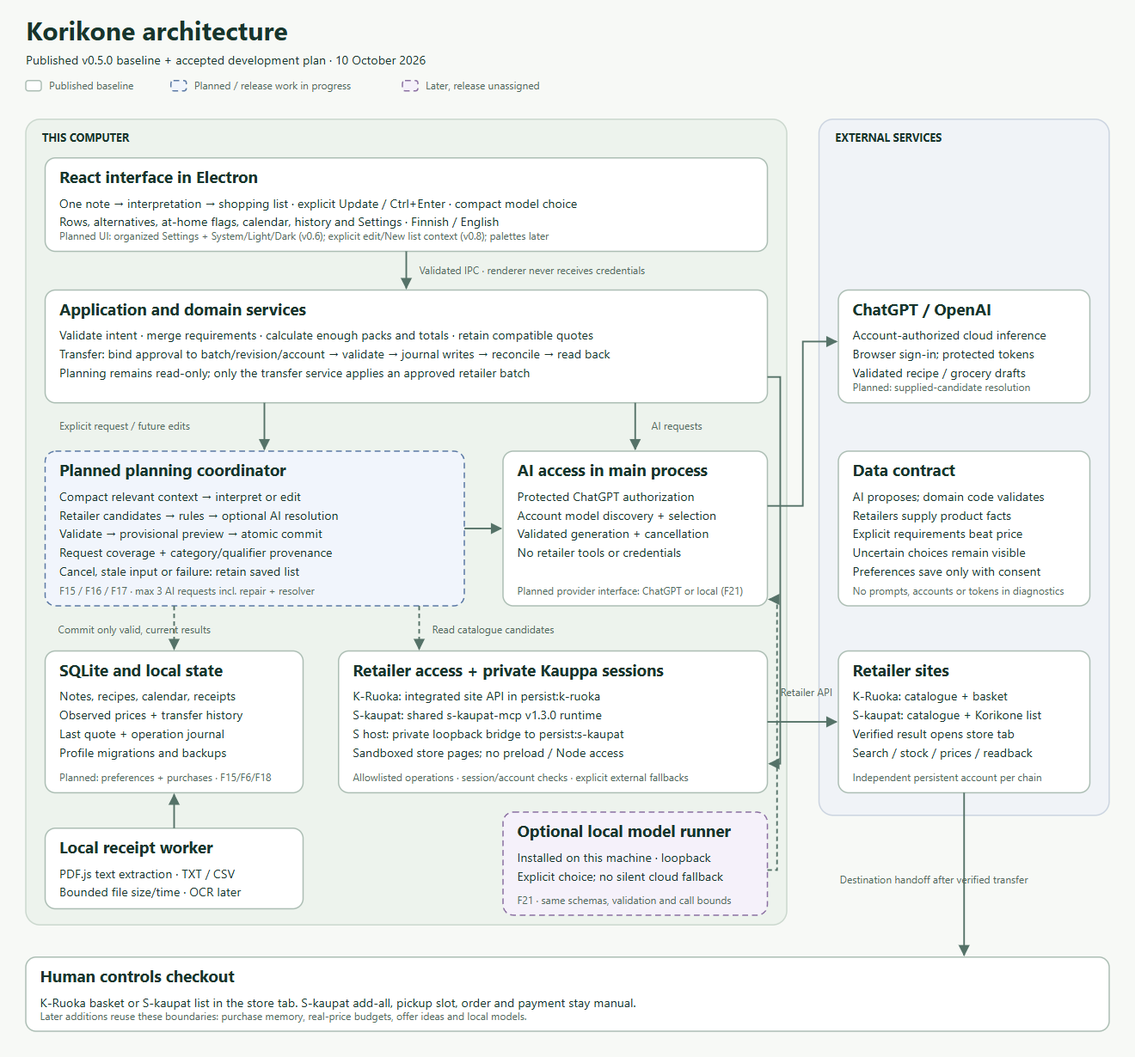
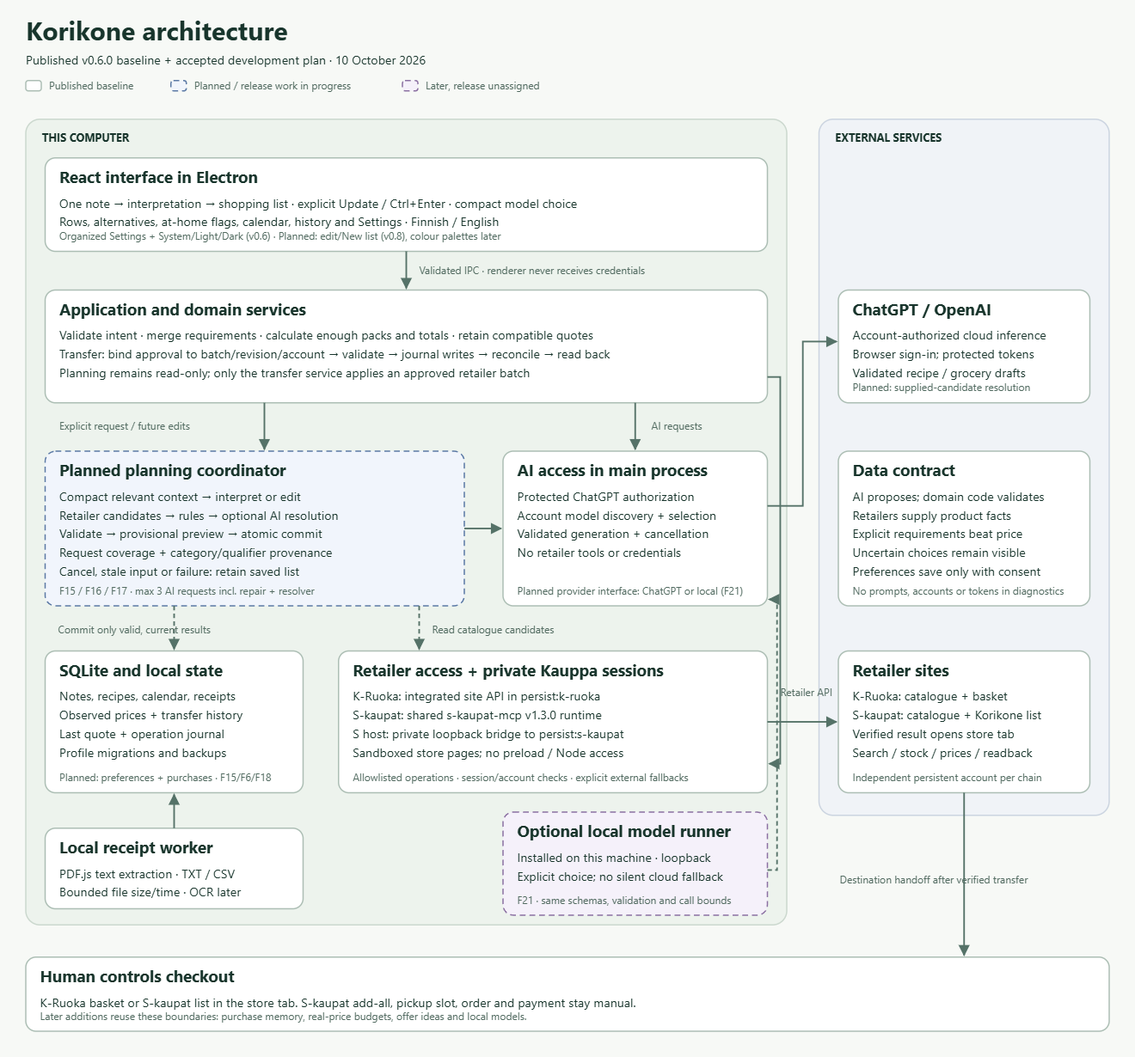
Record v0.6.0 publication and one-flow pre-release policy

diff --git a/docs/release-0.6.0.md b/docs/release-0.6.0.md
@@ -1,7 +1,21 @@
 # v0.6.0 release verification
 
-Release preparation is In progress on 10 October 2026. PM agent, branch `codex/release-v0.6.0`, shared checkout `D:/AIstuff/repos/korikone`. Scope: versioning, full release checks, outdated regression-test fixes, Windows packaging, GitHub checks and publication. All U14/U15/U16 cards and owner visual/startup acceptance are recorded Done in [the task list](tasks/0.6.0.md).
+[v0.6.0](https://github.com/Vkuparin/korikone/releases/tag/v0.6.0) was published on 10 October 2026 at 09:05 UTC. Source tag: `27d7f1729f601445c07fa635bad7d499589b0d4c`, integrated into main. PM agent, branch `codex/release-v0.6.0`, shared checkout `D:/AIstuff/repos/korikone`. Scope completed: versioning, release checks, outdated regression-test fixes, Windows packaging, GitHub checks and publication. All U14/U15/U16 cards and owner visual/startup acceptance are recorded Done in [the task list](tasks/0.6.0.md).
 
 This remains an unsigned Windows x64 pre-release. Development fixtures use isolated profiles and no live AI or retailer accounts. Installer acceptance, signing and household pilot gates remain open in [pre-release scope](pre-release.md).
 
-Results and publication identifiers will be recorded after the checks finish.
+## Candidate and checks
+
+Candidate `27d7f17` is pushed to main. Application/version changes are in `b210a89`; later commits change tests and CI only. The version is 0.6.0 in both package manifests. Release regression fixes preserve real IPC, persistence and transfer checks: calendar backup opens Data; comparison configures the second chain through Stores; quote checks use Stores and AI; fixture coverage uses the scenario registry; palette checks wait for initial quotes; footer checks cover independent row scrolling and the short-window normal-flow fallback. The second-chain hint is exercised with a populated list, matching the accepted empty state, and passes its focused source rerun.
+
+Passed locally: 169 unit tests, build/typecheck, formatting, Windows x64 NSIS packaging and production dependency audit (zero vulnerabilities). Packaged checks: 28 passed across appearance startup/System events, backup validation, both chain sessions and complete transfers, setup, model/language/version settings, shopping edits, cancellation, PDF import, sandboxing and handoff recovery. The separate transfer-exception/open-only check also passes (29 unique packaged checks). Its first attempt timed out on a hidden-window screenshot; showing the loaded packaged fixture window fixed capture, matching the existing shopping-test setup. No application or installer change was needed. All eight built application files match the package's archived copies.
+
+The final local source desktop run passed all 63 tests (two workers, 11.6 minutes). The earlier run had one outdated empty-list hint assertion; its focused correction passed before this final run completed. Owner layout and Dark/System startup acceptance was completed on 10 October before release preparation. No new live requests were made. CI now skips documentation-only changes and cancels superseded runs on the same branch; code changes retain the full build, unit, formatting and desktop gates.
+
+During preparation, the owner asked to reduce repeated testing for future pre-releases. Trust recorded coder-agent focused checks, run one canonical full release flow locally or in CI, and rerun only failed or affected checks after fixes. Packaged checks should be a small smoke test. The owner asked to finish v0.6.0's already-running checks unchanged. This policy is now in AGENTS.md and the testing/release docs; further CI enforcement is tracked as R1.1 in [Later](tasks/later.md).
+
[1 lines of base64/hex data omitted]
+
+GitHub build, unit, formatting and desktop checks passed on the tagged source: [main run](https://github.com/Vkuparin/korikone/actions/runs/38038595608) and [release-branch run](https://github.com/Vkuparin/korikone/actions/runs/38038597000). The main desktop run passed all 63 tests in 24.9 minutes with the default single worker. Superseded runs were cancelled; historical failed runs remain in GitHub. A non-failing action-runtime deprecation annotation remains for `actions/checkout@v4` and `actions/setup-node@v4`; it does not affect the packaged application.
+
+The release is public and marked pre-release. Its uploaded installer digest matches the SHA-256 above, and the checksum file is also attached. The published tag resolves to `27d7f1729f601445c07fa635bad7d499589b0d4c`. Documentation publication follows this source tag and does not change the installer.

diff --git a/docs/roadmap.md b/docs/roadmap.md
@@ -4,7 +4,7 @@ Updated with the owner on 10 October 2026. This page records release goals, sequ
 
 ## Current release
 
-[v0.5.0](https://github.com/Vkuparin/korikone/releases/tag/v0.5.0) is published as an unsigned Windows pre-release and integrated into `main`. The source tag is `37a2951`; PR #11 integrated the application changes. Final verification: 164 unit tests, 38 source desktop tests, build, formatting and 23 packaged checks. Authorized live checks used zero ChatGPT requests and verified remembered store sessions, one small transfer per chain, selected destinations and duplicate-safe reopening. See [release verification](release-0.5.0.md) and [historical audits](roadmap-history.md). These are existing release evidence, not checks rerun for this roadmap update.
+[v0.6.0](https://github.com/Vkuparin/korikone/releases/tag/v0.6.0) is published as an unsigned Windows pre-release and integrated into `main`. It ships the reviewed shopping workspace, System/Light/Dark appearance and organized Settings. All 14 U14/U15/U16 cards and owner layout/startup acceptance are complete. Release verification, source tag, exact checks and remaining stable-release gates are recorded in [release-0.6.0.md](release-0.6.0.md). Release testing uses isolated development fixtures and zero live AI or retailer requests. Earlier retailer acceptance remains in [v0.5.0 verification](release-0.5.0.md); [historical audits](roadmap-history.md) retain earlier evidence.
 
 S-kaupat opens the Korikone shopping list. Its add-all flow reserves a slot and stays manual. K-Ruoka opens the selected store's basket. Published pre-release does not mean 1.0 readiness.
 
@@ -18,7 +18,7 @@ The owner chose design and Settings first for v0.6.0. The former matching milest
 | 0.3.0 | Both chains and comparison | [Both chains](tasks/0.3.0.md) | Existing feature checks and owner acceptance |
 | 0.4.0 | Explicit updates and one-action transfer | [Smooth flow](tasks/0.4.0.md) | Published pre-release; historical evidence preserved |
 | 0.5.0 | Stores inside Korikone | [Embedded stores](tasks/0.5.0.md) | Published pre-release; verification above |
-| 0.6.0 | Calm workspace, dark mode and organized Settings | [Design](tasks/0.6.0.md): U14, U15, U16 | Reviewed layouts; FI/EN light/dark/system modes; Settings functions retained; U8/U10 preserved; offline interaction checks and owner visual acceptance |
+| 0.6.0 | Calm workspace, dark mode and organized Settings | [Design](tasks/0.6.0.md): U14, U15, U16 | Published pre-release; reviewed layouts, modes and Settings; U8/U10 preserved; release checks and owner visual/startup acceptance complete |
 | 0.7.0 | Suitable products, complete prices and useful previews | [Matching](tasks/0.7.0.md): F4, F5, F15, F16 | Measured improvement without forbidden matches; bounded AI resolution; truthful previews; saved list survives failure; incomplete prices identified |
 | 0.8.0 | Edit the current list naturally | [Edits](tasks/0.8.0.md): F17 | Atomic edits, affected-only requoting, explicit New list and undo; unrelated groceries retained |
 | 0.9.0 | Purchase history and repeat shopping | [Memory](tasks/0.9.0.md): F6, F7, F8, U5, F18 | Provenance-aware local memory, opt-in recurring suggestions and repeat without AI; transfer distinguished from purchase |
@@ -27,7 +27,7 @@ The owner chose design and Settings first for v0.6.0. The former matching milest
 | 1.0.0 | Stable | [Pre-release gates](pre-release.md) | All gates met; no open blocker bugs |
 | Unassigned | Swedish, predefined colour palettes, price-constrained meals, optional routing and local models | [Later](tasks/later.md): L1, U17, F19, F20, F21 | Policy and release assignment before implementation |
 
-Every release preparation runs full checks under [AGENTS.md](../AGENTS.md), including packaged checks. Routine card work uses focused checks. Done features in a future milestone stay Done; that milestone still needs its remaining cards and release acceptance.
+Owner release policy, 10 October 2026: trust recorded coder-agent focused checks and run the full pre-release flow once, using one canonical local or CI execution. After fixes, rerun only failed or affected checks; no repeated full flow or feature matrices. Keep packaged checks to a small smoke test and reuse passing evidence across branch promotion and documentation changes. See [AGENTS.md](../AGENTS.md). The owner asked to finish the already-running v0.6.0 checks unchanged. CI enforcement is tracked as R1 in [Later](tasks/later.md).
 
 ## Accepted direction
 

diff --git a/docs/pre-release.md b/docs/pre-release.md
@@ -2,7 +2,7 @@
 
 Agreed direction on 9 October 2026: move from prototype to pre-release while keeping scope focused. The first version is **0.2.0-alpha.1**, distributed as an unsigned Windows x64 installer and marked as a GitHub pre-release.
 
-**0.2.0-alpha.3** was an earlier published pre-release. It added cancellation of a pending note interpretation and wider fixture and receipt-PDF checks on top of alpha.2's development mode. Its source and packaged checks passed. The current version is v0.5.0; deferred product features remain deferred.
+**0.2.0-alpha.3** was an earlier published pre-release. It added cancellation of a pending note interpretation and wider fixture and receipt-PDF checks on top of alpha.2's development mode. Its source and packaged checks passed. The current version is v0.6.0; deferred product features remain deferred.
 
 ## Included
 
@@ -12,9 +12,9 @@ Published v0.4.0 includes the accepted smooth-flow roadmap work: U1, U2, U7, U8,
 
 ## Release checks
 
-- Build, unit tests, desktop tests and formatting pass on the release source.
+- Run the full build, unit, desktop and formatting flow once on the release source, locally or in canonical CI. Trust the coder agents' focused evidence. After fixes, rerun only failed or affected checks; reuse passing evidence after promotion or documentation changes.
 - Build the Windows x64 NSIS installer with both pinned retailer workers.
-- Run the packaged executable through the demo transfer/recovery/restart journey and PDF receipt import with isolated test data.
+- Use a small packaged smoke check for launch/version and a relevant critical path with isolated test data. Add a focused check for a packaging-specific concern; do not repeat the source desktop suite or all feature matrices against the package.
 - Publish the installer and SHA-256 checksum with a source tag and known limitations. Mark the GitHub release as a pre-release. Installation and upgrades are manual.
 
 ## Gates before a stable release
@@ -23,8 +23,10 @@ Published v0.4.0 includes the accepted smooth-flow roadmap work: U1, U2, U7, U8,
 - K-Ruoka's small cart transfer and signed-in browser handoff passed on 9 October 2026: coffee quantity 0 to 1, verified readback, duplicate-safe reopening and owner-observed destination. The broader two-product and checkout-page check remains roadmap task A.1.
 - Test a clean Windows install, an upgrade with existing data, and uninstall behavior. A packaged executable smoke test does not establish installer acceptance.
 - Observe real multi-dish notes, varied receipts and household use without coaching.
-- Signing is unavailable, as reported by the owner on 9 October 2026. v0.5.0 remains unsigned. Revisit signing and verify the distribution process before broad release.
+- Signing is unavailable, as reported by the owner on 9 October 2026. v0.6.0 remains unsigned. Revisit signing and verify the distribution process before broad release.
 
 v0.5.0 integrates the published v0.4.0 flow with embedded retailer tabs, shared S-kaupat library calls, one-screen setup and second-chain setup in Settings. Source and packaged checks pass. Authorized live acceptance verified remembered sessions, small transfers and duplicate-safe reopening with zero ChatGPT requests. Results and remaining stable-release gates are recorded in [release-0.5.0.md](release-0.5.0.md).
+
+v0.6.0 adds the reviewed shopping layout, System/Light/Dark appearance and seven Settings sections. Owner layout and dark/System startup acceptance is complete. The release uses isolated development fixtures and preserves the v0.5.0 retailer flow. See [release-0.6.0.md](release-0.6.0.md) for full release and packaged checks. Clean-machine install, upgrade/uninstall, signing and household pilot gates remain open.
 
 Checkout and payment remain manual. Scanned receipts require OCR outside Korikone. Phone sync, automatic OCR and broader purchase-learning features stay deferred. Detailed evidence is in [acceptance.md](acceptance.md).

diff --git a/README.md b/README.md
@@ -6,7 +6,7 @@ The current source includes explicitly requested note interpretation, automatic 
 
 ## Install the pre-release
 
-Download the Windows x64 installer from [the v0.5.0 release](https://github.com/Vkuparin/korikone/releases/tag/v0.5.0). The installer is unsigned. Export a backup in Settings before upgrading an existing profile. See the [release notes](CHANGELOG.md), [v0.5.0 verification](docs/release-0.5.0.md) and [pre-release scope](docs/pre-release.md).
+Download the Windows x64 installer from [the v0.6.0 release](https://github.com/Vkuparin/korikone/releases/tag/v0.6.0). The installer is unsigned. Export a backup in Settings before upgrading an existing profile. See the [release notes](CHANGELOG.md), [v0.6.0 verification](docs/release-0.6.0.md) and [pre-release scope](docs/pre-release.md).
 
 ## Run from source
 
@@ -22,6 +22,8 @@ npm start
 Use **Ota käyttöön** for guided store and ChatGPT connections, or **Kokeile esimerkkiä** to try the demo. Either connection can be skipped. Language selection stays available in the sidebar. Choose an AI model below the note or in Settings. Automatic prefers an available small model to reduce usage; names indicate size but do not establish exact prices. If no suitable small model is available, choose a model explicitly. Changing the preference saves it for future note and recipe requests without submitting anything. Retailer sign-in uses the embedded store tabs. Korikone never imports your usual browser cookies.
 
 The store search includes both chains. Each retailer opens in the Kauppa view with its own persistent session. Sign in once in each tab. K-Ruoka uses the site's API in that session; S-kaupat uses the pinned v1.3.0 shared library with calls from the signed-in tab. Setup connects one chain. The hint under the shopping total leads to Settings to connect the second chain.
+
+Settings is divided into General, Household, Stores, ChatGPT and AI, Data, Advanced and About. Choose System, Light or Dark under General. System follows Windows appearance; retailer pages keep their own colours. Development mode is under Advanced.
 
 ## Shopping and receipts
 
@@ -60,7 +62,7 @@ npm run package
 - Weighted pricing and ambiguous pack sizes remain unresolved for both chains. Check dietary suitability, pack labels, fees and deposits in the retailer. The adapters cannot certify dietary suitability from catalogue data.
 - ChatGPT uses the documented local-app authorization flow and Windows-protected credentials. The note input explains which data is sent. Earlier owner acceptance verified Automatic and explicit-model requests; current fixtures cover model selection and cancellation. The app retains one registration per app profile. Manual planning works without it.
 - Catalogue quotes can differ from retailer basket prices; check the retailer's final total. Complete price handling is planned for v0.7.0 after the v0.6.0 design release; see the [roadmap](docs/roadmap.md).
-- The installer is unsigned; clean-machine and household usability checks remain outstanding. Embedded tabs have fixture coverage for sign-in rejection, expiry and restart. Results and stable-release gates are listed in [v0.5.0 acceptance](docs/release-0.5.0.md).
+- The installer is unsigned; clean-machine and household usability checks remain outstanding. Embedded tabs have fixture coverage for sign-in rejection, expiry and restart. Results and stable-release gates are listed in [v0.6.0 verification](docs/release-0.6.0.md).
 
 See [dependency decisions](docs/dependency-decisions.md) for versions and evidence.
 

diff --git a/AGENTS.md b/AGENTS.md
@@ -8,7 +8,9 @@ Every feature must be testable with local fixtures. Add success and relevant fai
 
 Use focused unit tests for each task or feature. Select the affected files or test names, for example `npm test -- tests/receipts.test.ts` or `npm test -- tests/development.test.ts -t "multi-dish"`. Run a focused UI test only when the change needs application or interaction coverage, for example `npm run test:ui -- tests/ui/shopping.spec.ts -g "cancellation"`. Use type checking, builds and formatting checks when relevant to the change. Do not broaden passing checks without a new failure, change or unresolved concern.
 
-Run full unit and desktop suites only when preparing a release. Release preparation requires `npm test`, `npm run test:ui`, `npm run build` and `npm run format:check`, plus the relevant packaged-app checks. Routine implementation, debugging and feature completion do not authorize a full-suite run.
+For pre-releases, trust the coder agents' recorded focused checks. Run the full release flow once: `npm test`, `npm run test:ui`, `npm run build` and `npm run format:check`. Use one canonical execution, local or CI; reuse passing checks on the same application source instead of repeating them after branch promotion or documentation changes. Routine implementation, debugging and feature completion do not authorize a full-suite run.
+
+After a failure, fix it and rerun only the failed checks or checks affected by the fix. Do not restart the full release flow or repeat passing feature matrices without an explicit owner request. Keep packaged validation to a small smoke check of launch/version and a relevant critical path; add a focused packaged check only for a packaging-specific concern. Do not replay the source desktop suite against the package. Reuse verified build output where possible. This owner policy was agreed on 10 October 2026 during v0.6.0 preparation; the owner asked to let that release's already-running checks finish unchanged.
 
 Local file dialogs may be stubbed to select test files. Receipt parsing, backup import/export, diagnostics and clipboard operations stay real and local in development mode.
 

diff --git a/docs/testing.md b/docs/testing.md
@@ -53,7 +53,7 @@ Synthetic PDF fixtures use explicit WinAnsi character encoding and correct byte 
 
 Settings exposes AI scenarios: `success`, `delayedSuccess`, `invalidOnce`, `invalidDraft`, `usageLimit`, `incompleteDraft` and `aiFailed`. `invalidOnce` exercises the real validation retry. `delayedSuccess` exercises changes to a note while a response is pending and request cancellation. The basket's Demo controls simulate a price change or a transfer interrupted after a write. Unit tests use mocked HTTP streams for partial output and server errors, and mocked account state for token refresh and model selection.
 
-During implementation, run focused unit tests for the changed feature, such as `npm test -- tests/receipts.test.ts` or `npm test -- tests/development.test.ts -t "multi-dish"`. Add focused desktop checks when interaction or real IPC behavior needs verification. Run full unit and desktop suites only when preparing a release; that gate also includes the build, formatting and relevant packaged-app checks. These checks do not use the owner's ChatGPT allowance. Test dependencies may download pinned worker files, and the OAuth callback test connects only to localhost.
+During implementation, run focused unit tests for the changed feature, such as `npm test -- tests/receipts.test.ts` or `npm test -- tests/development.test.ts -t "multi-dish"`. Add focused desktop checks when interaction or real IPC behavior needs verification. Record evidence for the release agent to reuse. For pre-releases, run the full unit, desktop, build and formatting flow once, locally or in canonical CI. After fixes, rerun only failed or affected checks. Keep packaged checks to a small launch/version and critical-path smoke test; do not replay the source suite or passed feature matrices. Branch promotion and documentation changes do not require another full flow. These checks do not use the owner's ChatGPT allowance. Test dependencies may download pinned worker files, and the OAuth callback test connects only to localhost.
 
 ## Live acceptance
 

diff --git a/docs/design.md b/docs/design.md
@@ -4,7 +4,7 @@ Revised 9 October 2026 after the first user feedback round. The current directio
 
 Korikone turns a household's plain-language shopping note into an editable, priced shopping list. Meals, ready foods, breakfasts, evening foods and treats belong in the same note. Product choices happen automatically; the user corrects exceptions and reviews the resulting cart changes. Checkout stays in the retailer.
 
-Current published delivery: **v0.5.0 unsigned Windows pre-release**, integrated into main. See [release verification](release-0.5.0.md) and [release goals](roadmap.md). The [accepted UI design](ui-design.md) and [shopping experience plan](shopping-experience.md) describe the next changes; they are not claims about the published build. Development and automated checks use local fixtures; live ChatGPT tests require an explicit user request.
+Current published delivery: **v0.6.0 unsigned Windows pre-release**, integrated into main. See [release verification](release-0.6.0.md) and [release goals](roadmap.md). The [accepted UI design](ui-design.md) is implemented for the v0.6.0 shopping workspace, appearance modes and organized Settings. Matching, previews and conversational edits in the [shopping experience plan](shopping-experience.md) remain later work. Development and automated checks use local fixtures; live ChatGPT tests require an explicit user request.
 
 ## Product decisions
 
@@ -83,7 +83,7 @@ The new `listHistory` records verified transfers, not completed purchases. Exist
 
 ## Architecture
 
-![Published v0.5.0 architecture and planned evolution](architecture.svg)
+![Published v0.6.0 architecture and planned evolution](architecture.svg)
 
 Updated 10 October 2026. Solid boxes show the published baseline; dashed blue shows planned work or release work in progress; dashed purple shows later work with no release assigned. The picture separates the computer from cloud/retailer services. [PNG preview](architecture.png) is exported from the same SVG.
 

diff --git a/docs/tasks/later.md b/docs/tasks/later.md
@@ -2,6 +2,14 @@
 
 Canonical task list. Read [the roadmap](../roadmap.md) and [AGENTS.md](../../AGENTS.md), then load only the assigned card and its dependencies. Existing IDs and status evidence are preserved.
 
+## R1. One full pre-release validation flow
+
+Owner decision, 10 October 2026. Trust focused checks recorded by coder agents. One full release flow is sufficient; fixes use failed/affected checks only. Let v0.6.0's existing runs finish unchanged. The standing policy is in AGENTS.md; CI enforcement is a later tooling task.
+
+| ID | Task and Done when | Agent | Depends on | Status |
+| --- | --- | --- | --- | --- |
+| R1.1 | Change `.github/workflows/ci.yml` and release instructions/scripts so routine coding uses fast checks and affected fixtures, while one explicit canonical release run executes unit, desktop, build and formatting checks. Reuse the same source's passing evidence across branch promotion/docs changes; fixes rerun only failed/affected checks. Define exact workflow triggers and evidence reuse before editing automation. Keep packaged validation to a small launch/version plus relevant critical-path smoke test and reuse verified build output where possible. Done when one fixture release exercises the gate once, a targeted fix does not restart it, docs/promotion do not duplicate it, and checks remain visible in GitHub without reporting unrun checks. | Strong | Owner policy in AGENTS.md | Planned: implement after v0.6.0; current runs finish unchanged |
+
 ## F19. Real-price-constrained meal planning
 
 Deferred from the immediate redesign and matching releases. This is different from F8's historical spending chart or F11's offer ideas. No implicit autonomous meal changes or invented prices. Assign a release after F19.1 settles policy and matching/edit foundations are measured.

diff --git a/docs/tasks/README.md b/docs/tasks/README.md
@@ -6,7 +6,7 @@
 
 1. Read the assigned card, direct dependency contracts and relevant code. Do not load the entire backlog. Check `origin/main` and active work before claiming; status may lag code.
 2. Mark In progress with agent/thread, branch/worktree and scope. Publish the claim so other agents can see it. Do not implement another agent's claimed card.
-3. Use development fixtures at external boundaries and real validation/persistence/UI paths. Run focused checks. Full suites belong to release preparation under AGENTS.md.
+3. Use development fixtures at external boundaries and real validation/persistence/UI paths. Run focused checks and record their evidence; release agents trust passing coder checks. Pre-releases get one full validation flow, local or CI, under AGENTS.md. Fix failures with affected checks only, and keep packaged smoke checks small.
 4. Mark Done with commit/PR, integration state, exact checks and remaining owner checks. Local-only, merged and released are different facts. Never claim unrun tests.
 5. A Strong card establishing an API updates dependent cards with actual symbols, files, schemas and fixtures before Simple handoff. Proposed paths are suggestions, not existing-code claims.
 6. Update behavior documentation when implementation changes it. Update roadmap summaries when release scope or decisions change; do not duplicate card statuses there.

diff --git a/docs/tasks/0.6.0.md b/docs/tasks/0.6.0.md
@@ -4,6 +4,8 @@ Owner-selected scope, 10 October 2026. Improve presentation while preserving cur
 
 ## U14. Calm shopping workspace
 
+Published in [v0.6.0](https://github.com/Vkuparin/korikone/releases/tag/v0.6.0), 10 October 2026. All 14 cards below are included. [Release verification](../release-0.6.0.md) records the full checks, package, source tag and remaining stable-release gates; individual card evidence below records what each coder actually ran before release preparation.
+
 Keep one composer, interpretation and shopping list. Give results and totals clear hierarchy and readable quantities/prices. Keep the model selector compact and calendar separate. Preserve FI/EN, Ctrl+Enter, manual row actions, cancellation, transfer exceptions and recovery.
 
 Review close, 10 October 2026: U14.1 must reserve one clearly labelled provisional-results area, with the saved list accessible and only one authoritative total/action for the selected state. Avoid two competing full lists or totals and automatic scroll/layout jumps. Reserve visible current-list editing context and an easy New list action for F17.6, but do not imply edit support before it lands. U14.4 keeps ordinary alternatives/quantity corrections beside rows; Advanced manages remembered rules rather than today's groceries.
